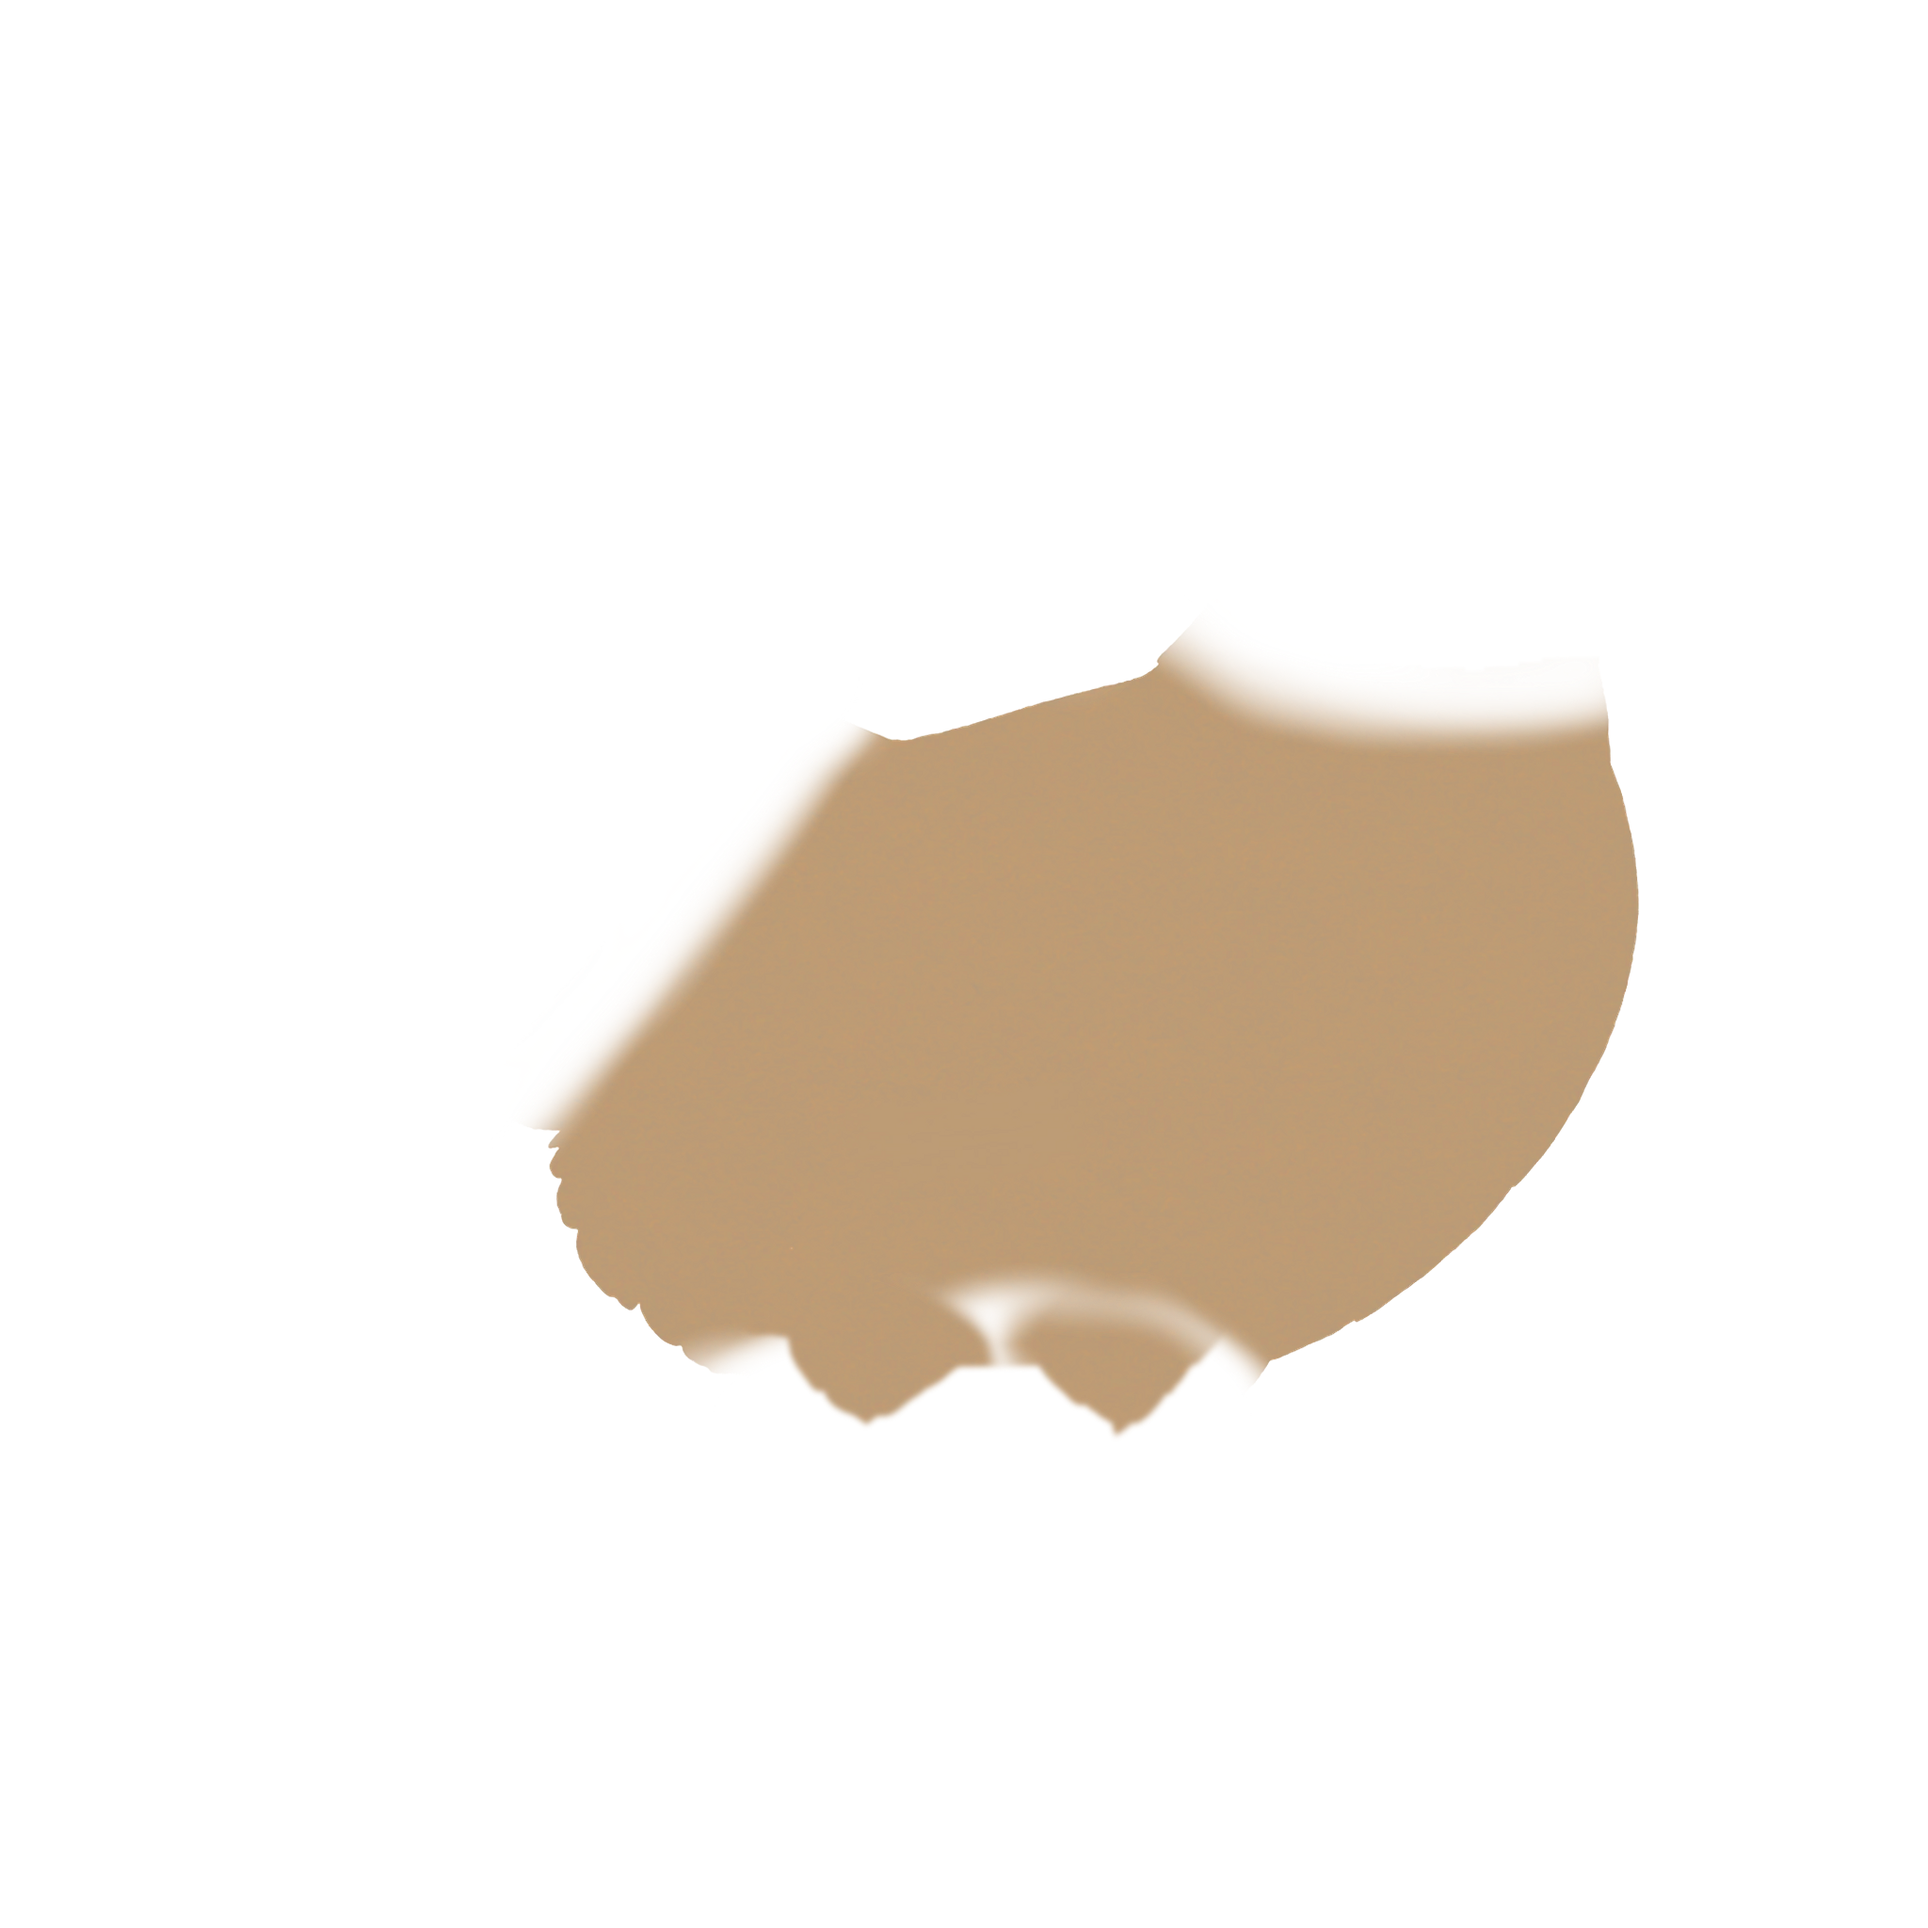
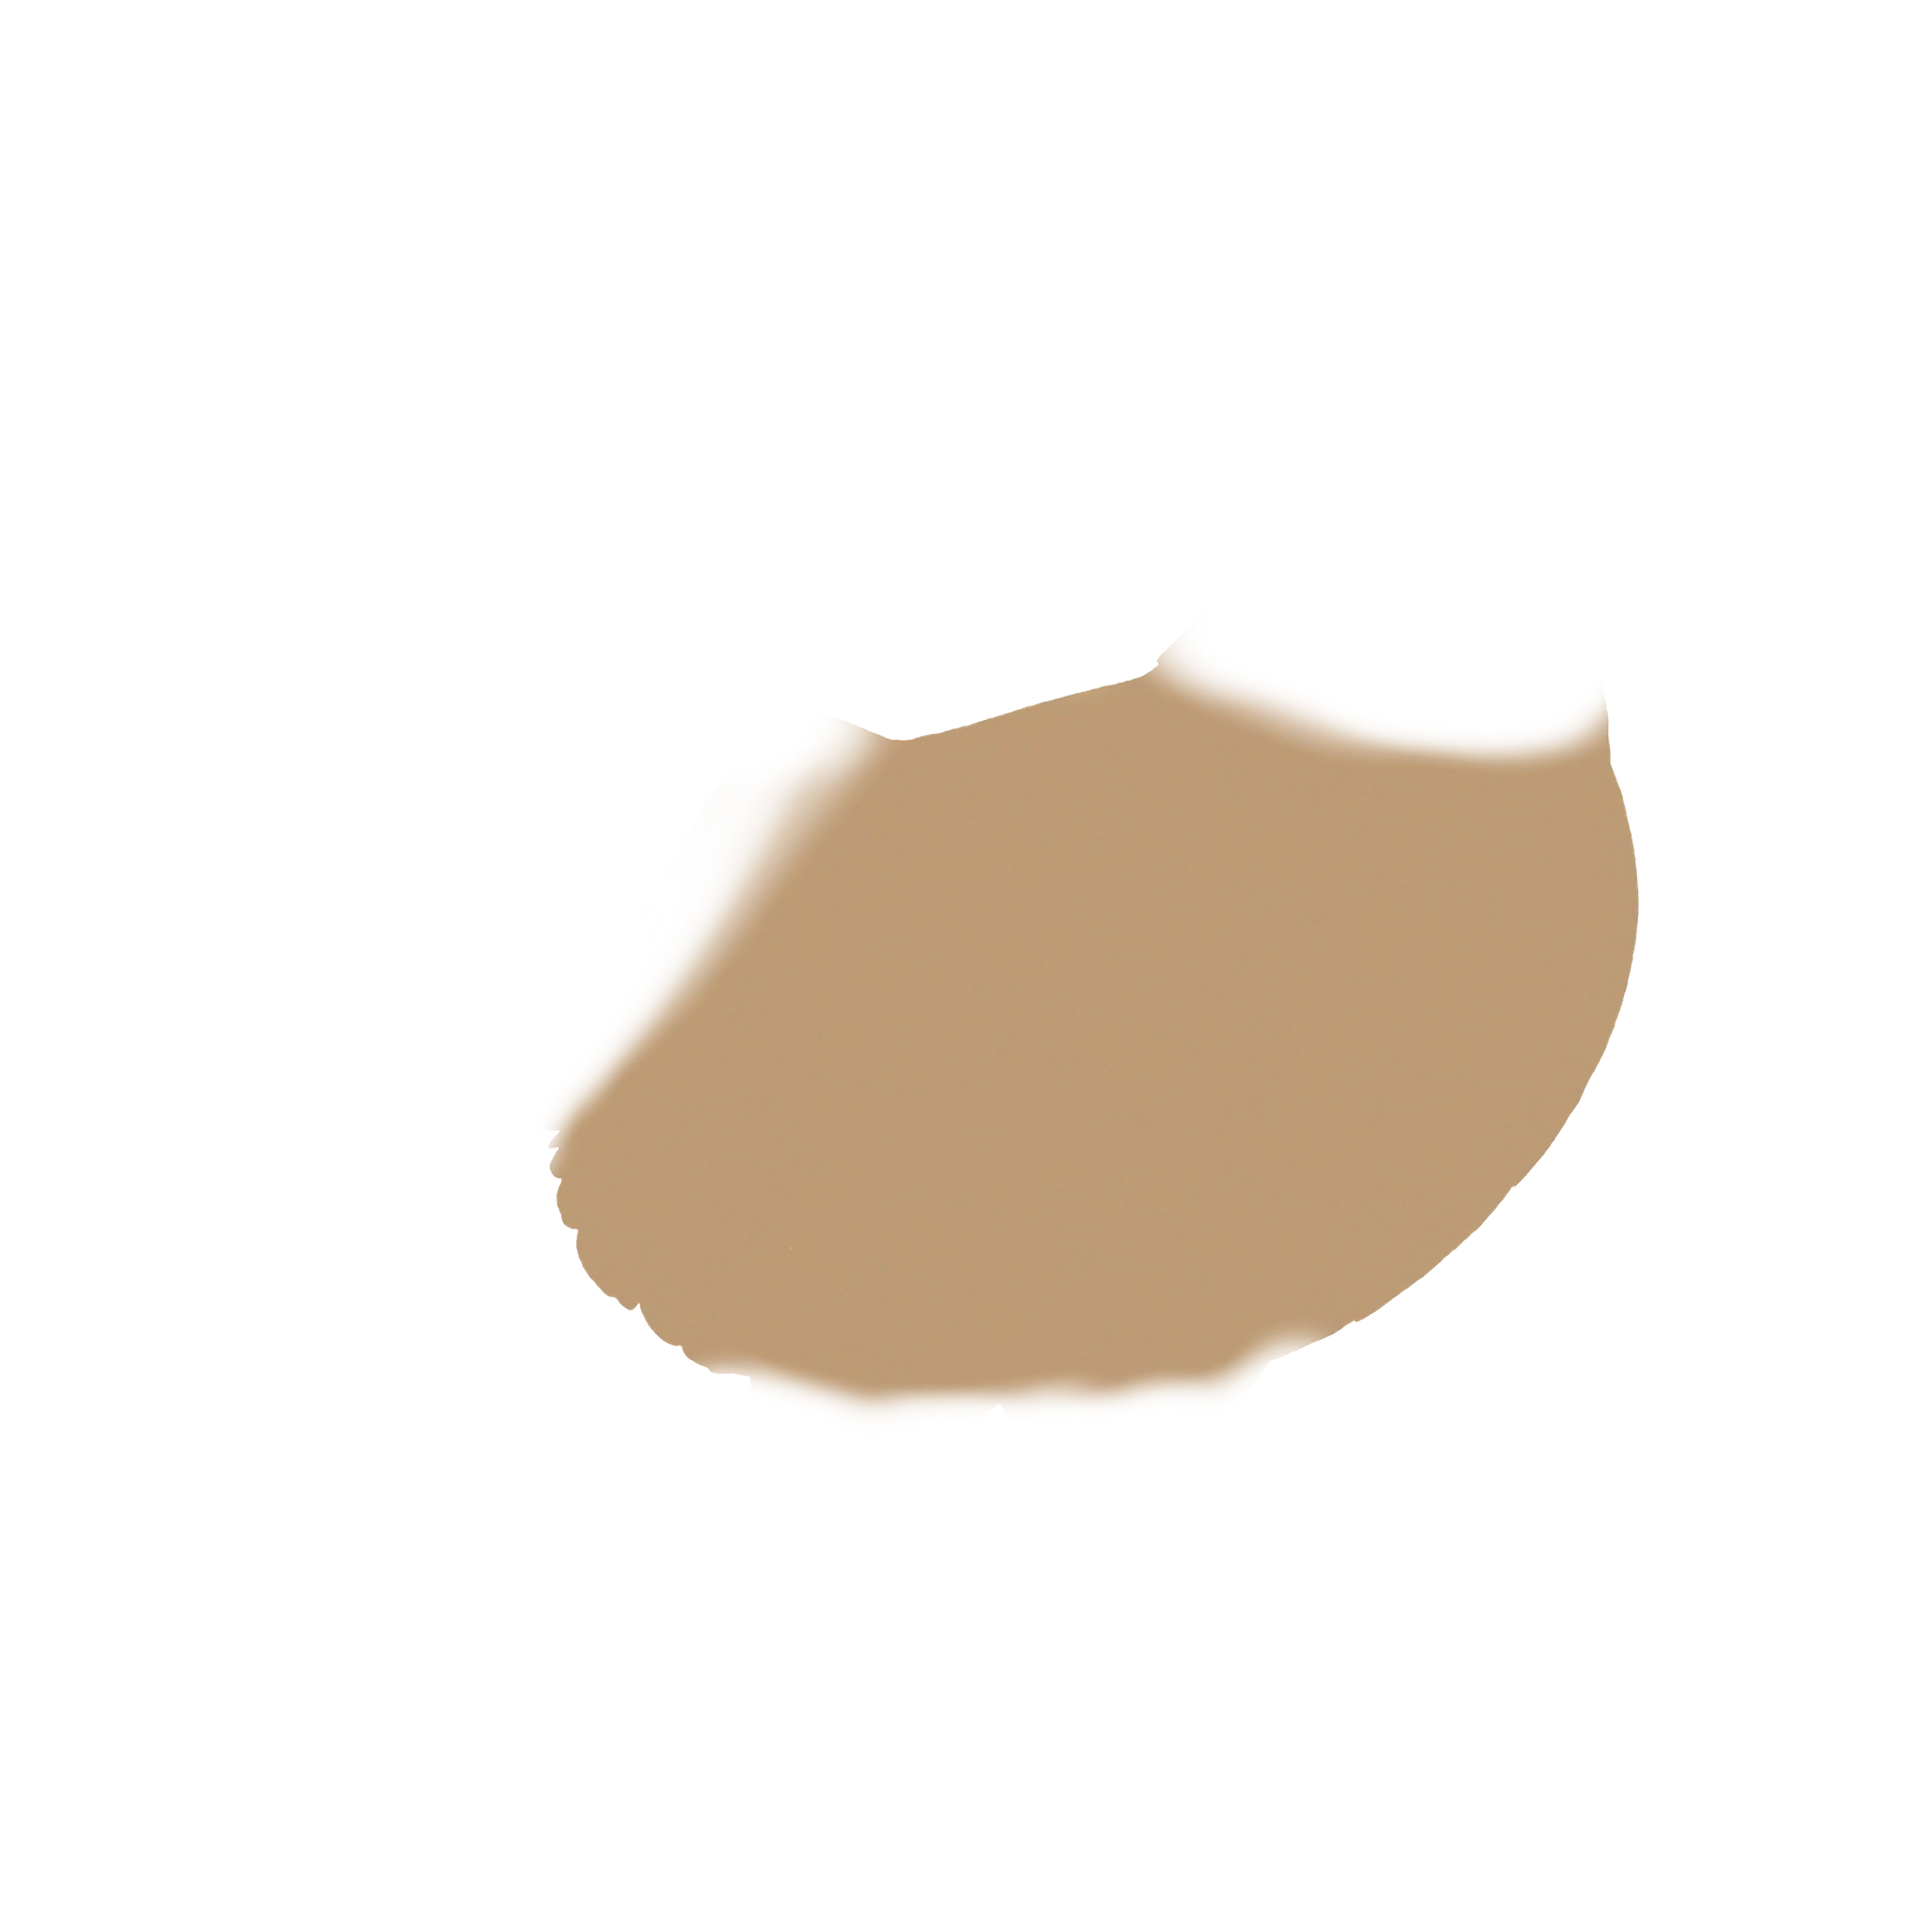
Art: the hen's body runs down behind her drumsticks
The keeper repainted the body to cover the drumstick area, so the
swinging thighs show belly behind them, not background. The automatic
underfill is off for the hen.

Claude-Session: https://claude.ai/code/session_016EsyZcmBYM3dDGRHH8dMYn

diff --git a/art-source/kit-fits/README.md b/art-source/kit-fits/README.md
@@ -40,9 +40,10 @@ each part on the kit canvas. A part's soft edges stay soft. Only the crisp edges
 outline) are used to find the place, so long soft cuts do not pull it. Small specks of other parts left on
 an export are dropped.
 
-A part cut out of another one leaves a hole in it (the hen's drumsticks came out of her body). `pieces` >
-`underfill` fills the hole with the cut part's shape (pulled in by `inset` export pixels), so a swinging
-part never shows the background behind it. `drawOrder` in `fit.json` sets this drawing's own order; the
+A part cut out of another one leaves a hole in it. The best fix is in the art: paint the part underneath
+on, behind the cut part (the hen's body now runs down behind her drumsticks). Where that is not done yet,
+`pieces` > `underfill` fills the hole with the cut part's shape (pulled in by `inset` export pixels), so a
+swinging part never shows the background behind it. `drawOrder` in `fit.json` sets this drawing's own order; the
 hen's back drumstick draws in front of her filled body.
 
 `pieces` > `caps` gives a part that turns a long way (the neck in a peck) a disc round its joint, in its
